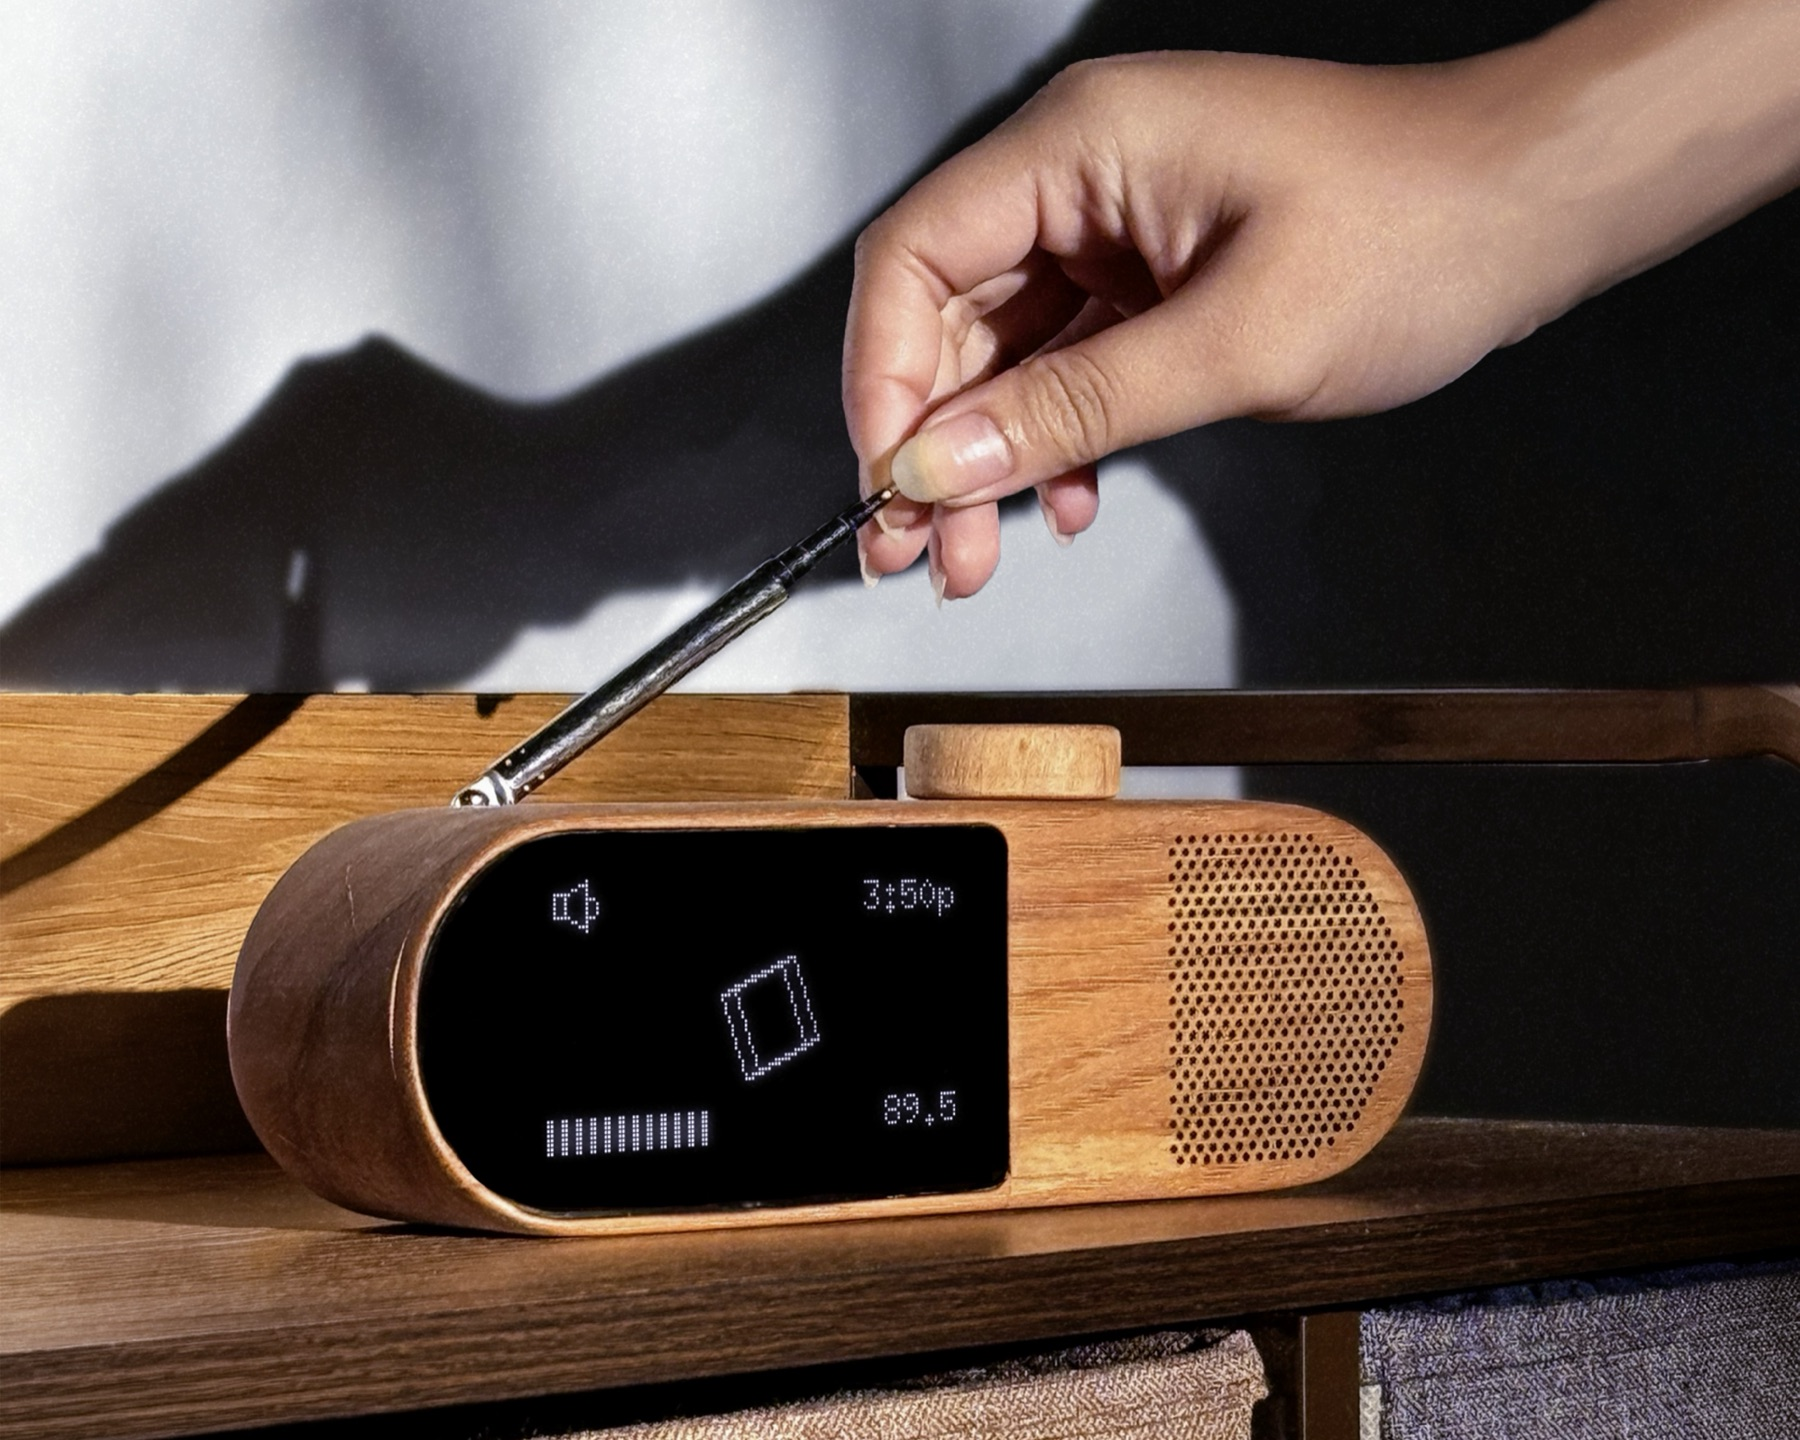
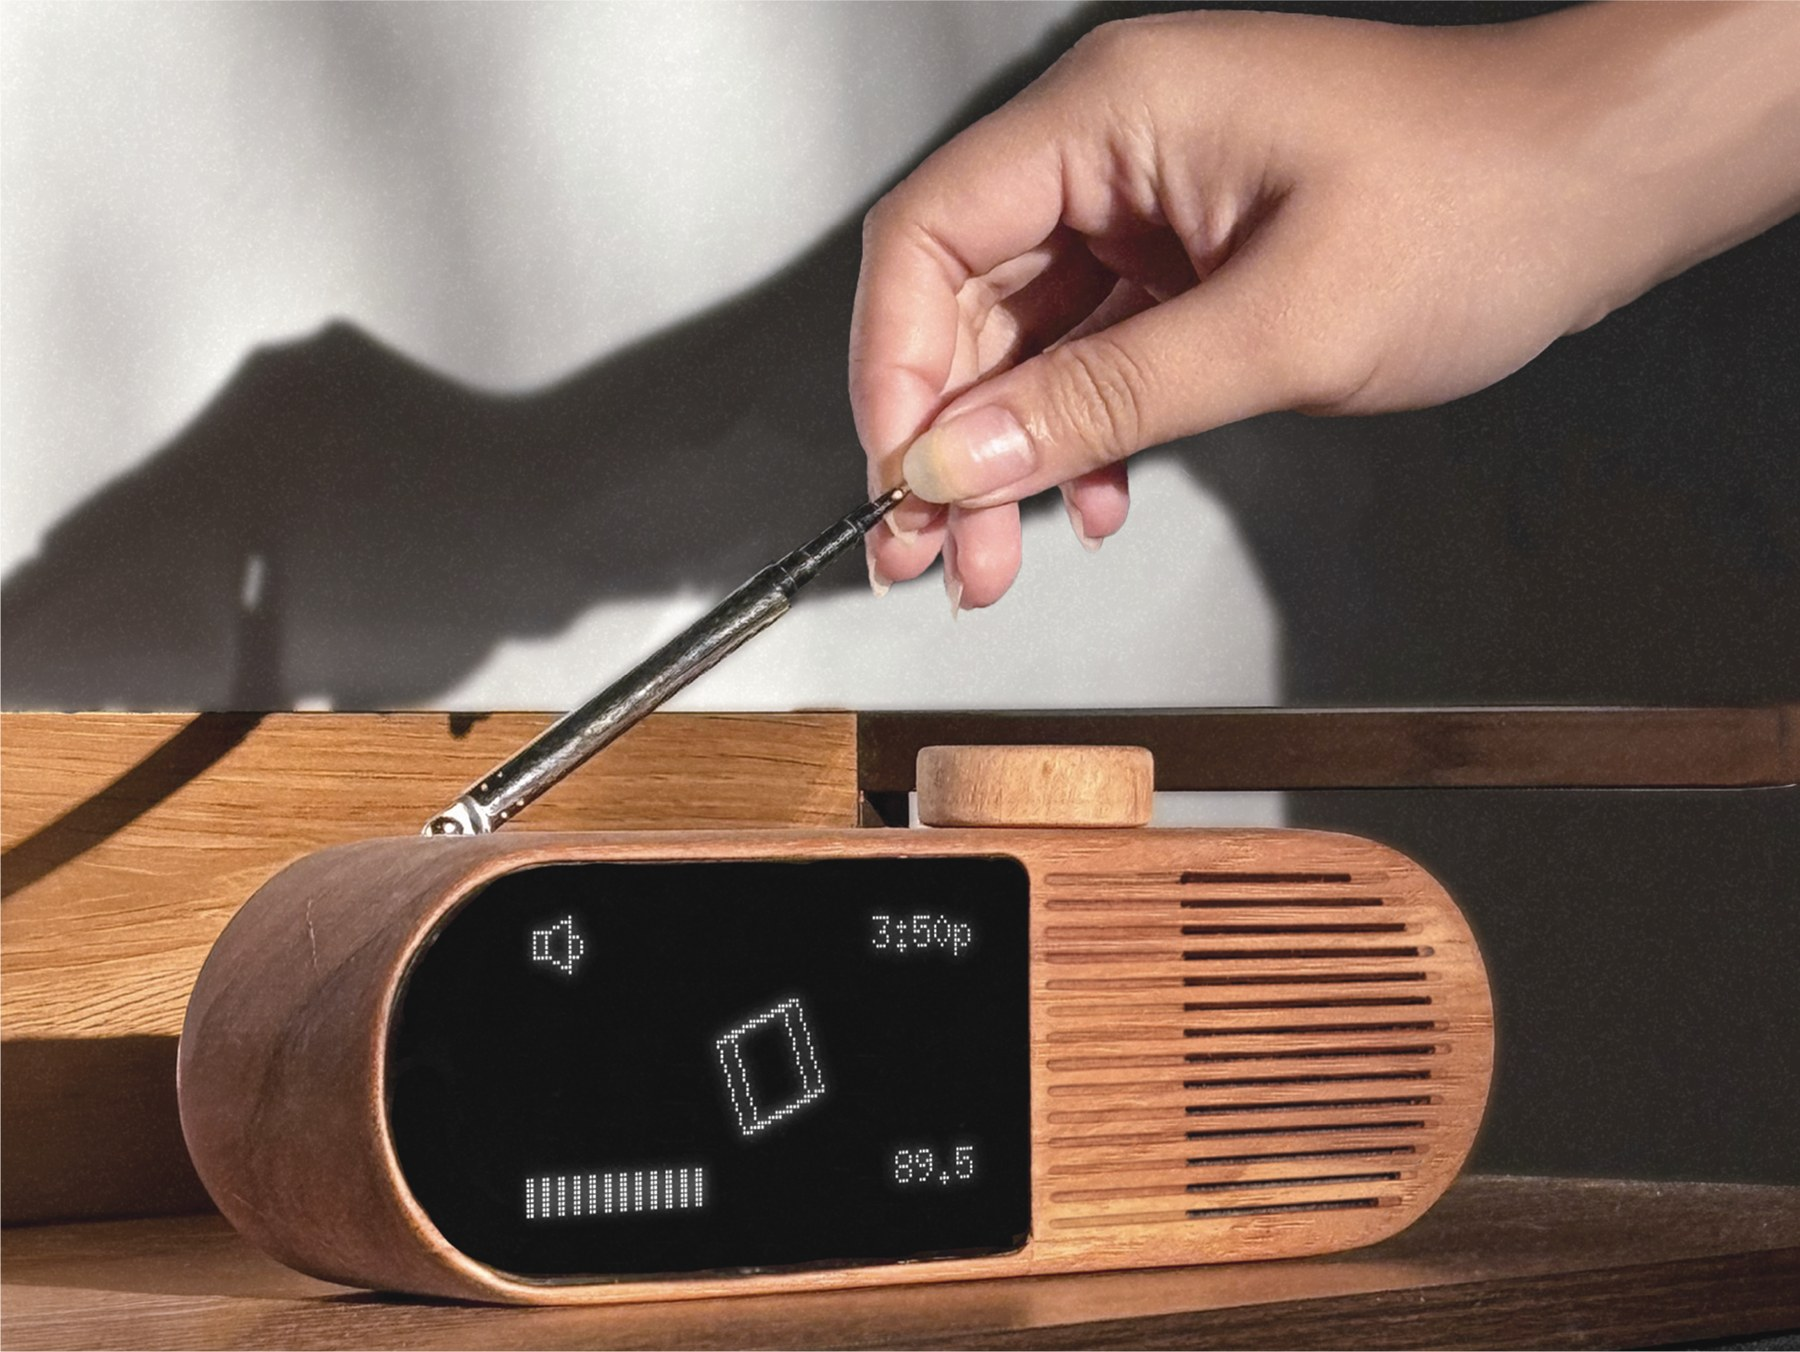
DAWN: swap in Figma photos and rework case-study layout
- Replace 7 DAWN photos with the Figma source images (hero, both
  keyshots, exploded view, and the three display shots), sized to
  1800px and re-encoded; cutouts composited on white
- Section 01: turn the reworded FM-radio line into a ruled pull-statement
- Section 02: drop the form-evolution plate (ends on the ideation 2-up)
- Section 03: reorder build plates so each image pairs with its statement
  (wood → form shot; board → breadboard → bare PCB → PCB 2-up)
- Section 04: update display caption labels to match Figma

diff --git a/dawn/index.html b/dawn/index.html
@@ -76,6 +76,10 @@
       padding:22px 18px; }
     .dialgestures .dg:last-child{ border-bottom:none; }
   }
+
+  /* full-width pull statement, ruled top and bottom (closes section 01) */
+  .statementband{ border-top:1.5px solid var(--line); border-bottom:1.5px solid var(--line);
+    padding:calc(46px * var(--air)) 0; margin-top:calc(46px * var(--air)); }
 </style>
 </head>
 <body>
@@ -179,7 +183,7 @@
         <div class="pf"><span>a calmer ritual for the first and last moments of the day</span><span class="tnum">fig. 01</span></div>
       </div>
 
-      <div class="block reveal">
+      <div class="statementband reveal">
         <h2 class="statement">fm radio is live and passive,<br>you tune in and something is already happening<br><span class="mk">it builds a greater sense of active community.</span></h2>
       </div>
     </section>
@@ -207,12 +211,6 @@
           <img loading="lazy" src="../assets/img/dawn/ideation-2.jpg" alt="DAWN cardboard prototypes testing single-hand use">
         </div>
       </div>
-
-      <div class="plate reveal">
-        <div class="ph"><span><span class="dot" aria-hidden="true"></span>form_evolution.jpg</span><span>silhouette study</span></div>
-        <img loading="lazy" src="../assets/img/dawn/form-evolution.jpg" alt="DAWN form evolution from cylinder to compact pill shape">
-        <div class="pf"><span>the silhouette earned its shape in the hand, not on screen</span><span class="tnum">fig. 02</span></div>
-      </div>
     </section>
 
     <!-- ==================== 03 · DEVELOPMENT ==================== -->
@@ -230,15 +228,21 @@
       </div>
 
       <div class="plate reveal">
-        <div class="ph"><span><span class="dot" aria-hidden="true"></span>material.jpg</span><span>turned hardwood</span></div>
-        <img loading="lazy" src="../assets/img/dawn/material.jpg" alt="DAWN wooden housings — laser-cut faceplates and hand-shaped bodies">
-        <div class="pf"><span>laser-cut faceplate · hand-shaped body · acrylic screen</span><span class="tnum">fig. 03</span></div>
+        <div class="ph"><span><span class="dot" aria-hidden="true"></span>form_evolution.jpg</span><span>silhouette study</span></div>
+        <img loading="lazy" src="../assets/img/dawn/form-evolution.jpg" alt="DAWN form evolution from cylinder to compact pill shape">
+        <div class="pf"><span>the silhouette earned its shape in the hand, not on screen</span><span class="tnum">fig. 02</span></div>
       </div>
 
       <!-- electronics -->
       <div class="block reveal">
         <h2 class="statement">a board built <span class="mk">from scratch.</span></h2>
         <p class="lead">To reach the compact form, I designed a custom PCB in KiCad that unifies every component on a single board — removing the wiring constraints that would otherwise dictate the size and shape of the enclosure.</p>
+      </div>
+
+      <div class="plate reveal">
+        <div class="ph"><span><span class="dot" aria-hidden="true"></span>material.jpg</span><span>turned hardwood</span></div>
+        <img loading="lazy" src="../assets/img/dawn/material.jpg" alt="DAWN wooden housings — laser-cut faceplates and hand-shaped bodies">
+        <div class="pf"><span>laser-cut faceplate · hand-shaped body · acrylic screen</span><span class="tnum">fig. 03</span></div>
       </div>
 
       <div class="plate reveal">
@@ -360,11 +364,11 @@
 
       <div class="plates two reveal">
         <div class="plate">
-          <div class="ph"><span><span class="dot" aria-hidden="true"></span>display_top.jpg</span><span class="tnum">above</span></div>
+          <div class="ph"><span><span class="dot" aria-hidden="true"></span>display_front.jpg</span><span class="tnum">above</span></div>
           <img loading="lazy" src="../assets/img/dawn/display-top.jpg" alt="DAWN display, from above">
         </div>
         <div class="plate">
-          <div class="ph"><span><span class="dot" aria-hidden="true"></span>display_detail.jpg</span><span class="tnum">detail</span></div>
+          <div class="ph"><span><span class="dot" aria-hidden="true"></span>display_user_interaction.jpg</span><span class="tnum">detail</span></div>
           <img loading="lazy" src="../assets/img/dawn/display-bottom.jpg" alt="DAWN display, detail">
         </div>
       </div>
